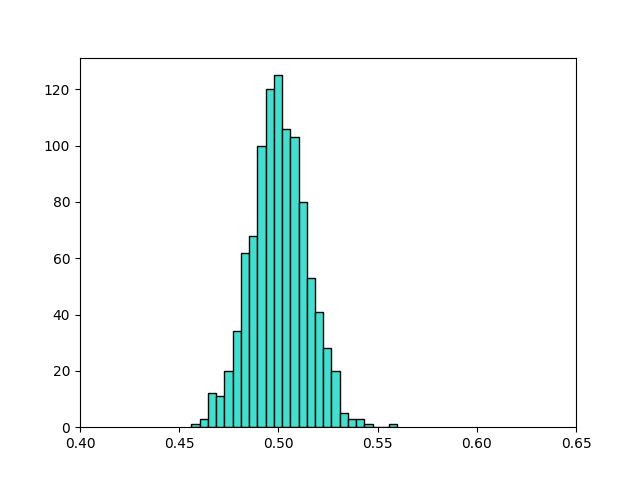
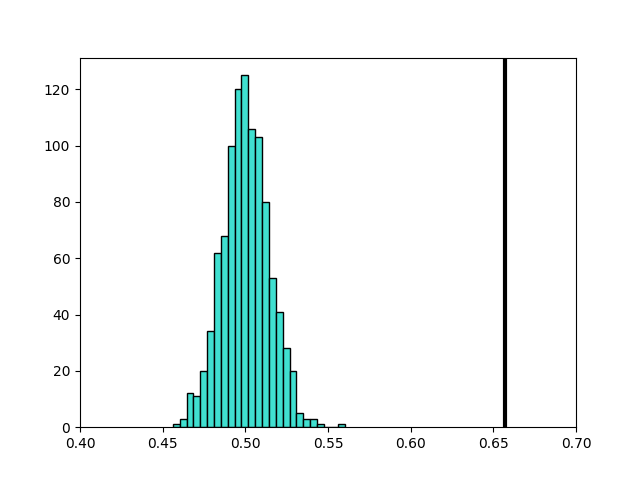
updated plot scale

diff --git a/braincode/mvpa.py b/braincode/mvpa.py
@@ -100,8 +100,8 @@ class MVPA:
                 "code": [0.4, 0.9],
                 "content": [0.4, 0.65],
                 "structure": [0.25, 0.55],
-                "bow": [0.4, 0.65],
-                "tfidf": [0.4, 0.65],
+                "bow": [0.4, 0.7],
+                "tfidf": [0.4, 0.7],
             }[self.feature]
         )
         plt.savefig(
